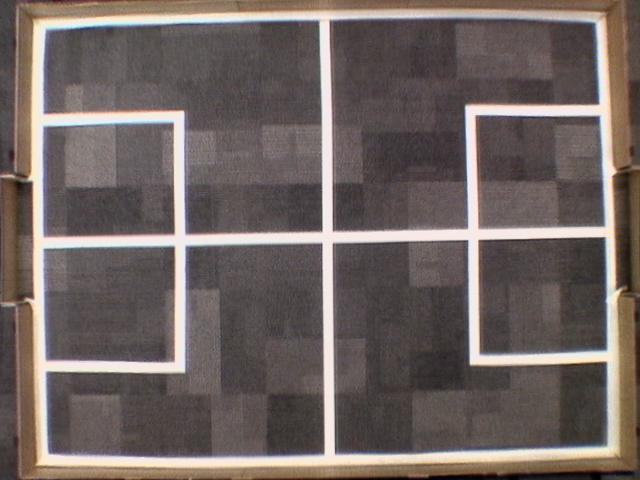
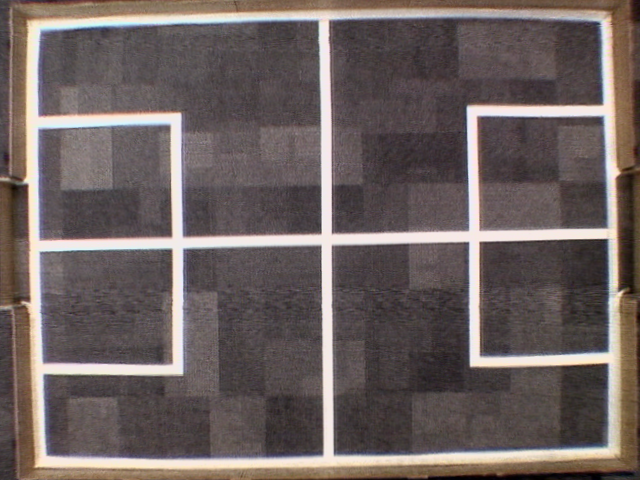
fixed background capturing and added a bg for pitch room 1

diff --git a/vision/getBackground.py b/vision/getBackground.py
@@ -7,7 +7,7 @@ parser.add_argument("pitch", help="[0] Main pitch, [1] Secondary pitch")
 args = parser.parse_args()
 pitch_number = int(args.pitch)
 
-capture = Camera(pitch=0)
+capture = Camera(pitch=pitch_number)
 
 while True:
 
